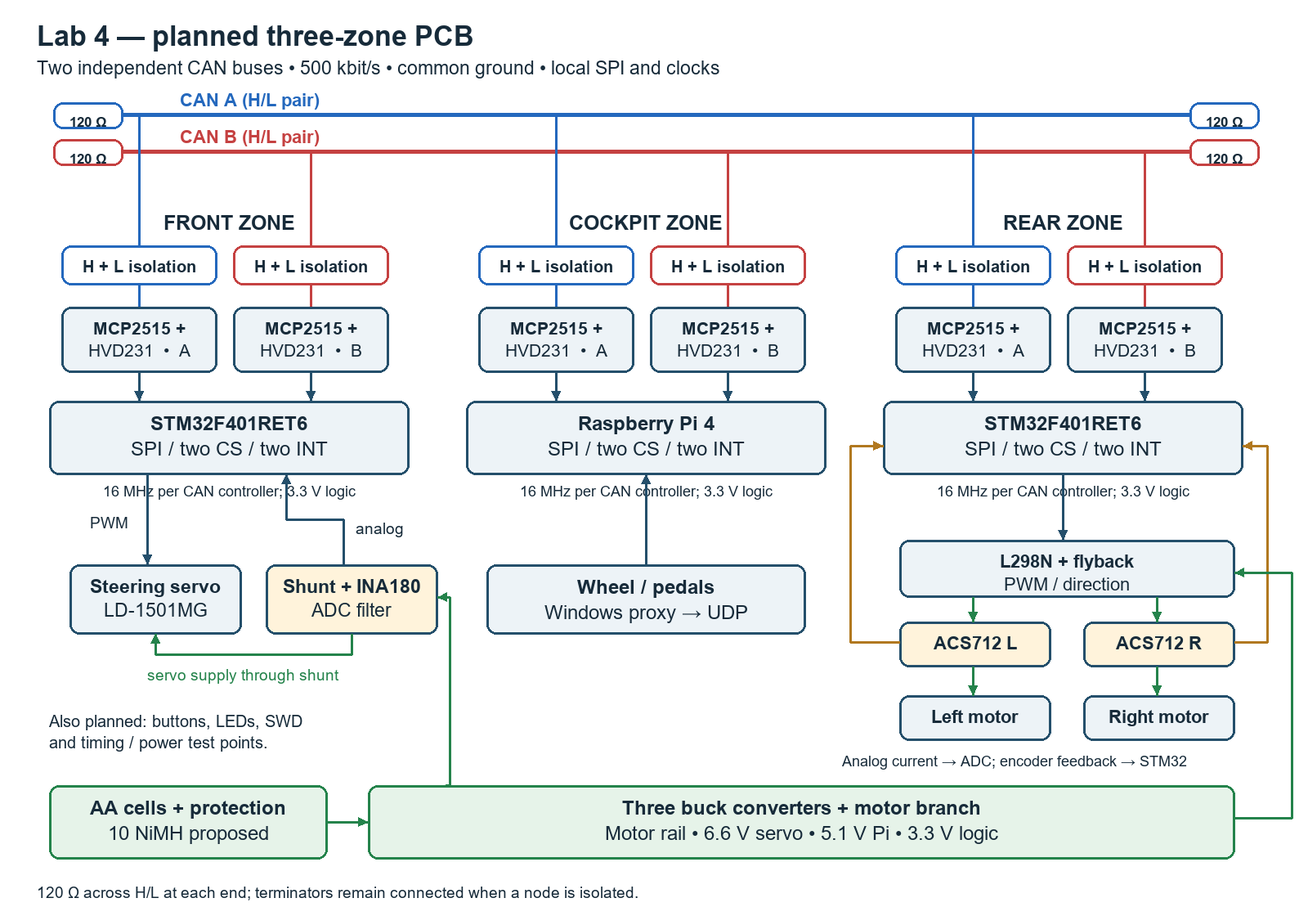
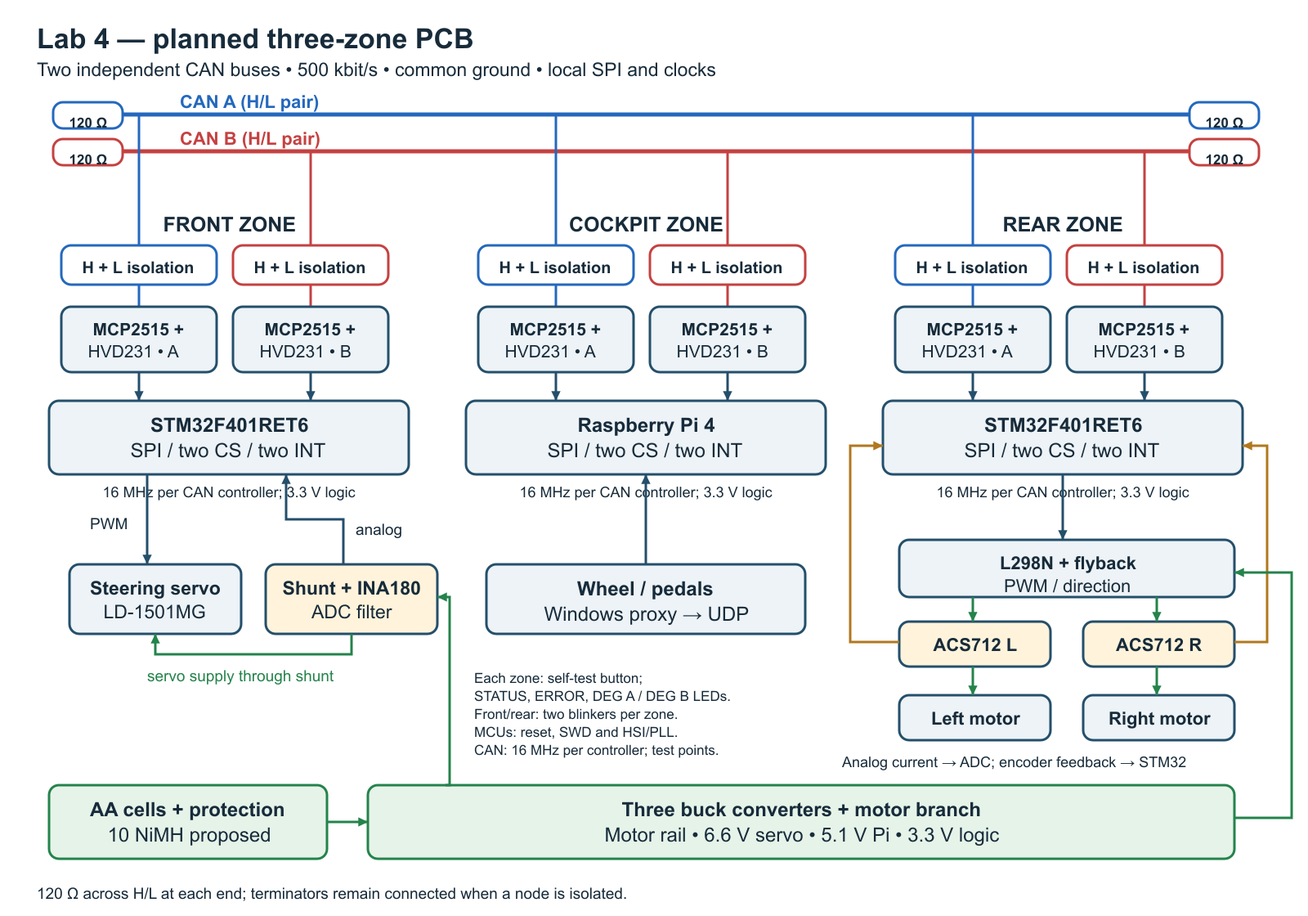
Reconcile Lab 4 measurement evidence and remaining fabrication checks

diff --git a/lab4/Power-design.html b/lab4/Power-design.html
@@ -1,6 +1,6 @@
-<!doctype html><html lang="en"><meta charset="utf-8"><title>Lab 4 power design and calculations</title><style>body{font:16px/1.55 Arial,sans-serif;color:#172b3a;max-width:1050px;margin:35px auto;padding:0 20px}h1{font-size:28px}h2{font-size:22px;margin-top:30px}table{border-collapse:collapse;width:100%;margin:15px 0}th,td{border:1px solid #bcc7ce;padding:8px;text-align:left;vertical-align:top}th{background:#eaf1f5}code{background:#eef2f5;padding:2px 4px}aside{background:#fff1d6;padding:14px}li{margin:9px 0}@media print{body{font-size:10pt;margin:0}h2{break-after:avoid}tr{break-inside:avoid}}</style><h1>Lab 4 power design and calculations</h1><p>23 October 2026. Calculated design for review; no new circuit has been built or measured. This engineering supplement supports the shared Lab 4 Writeup.</p>
-<h2>Power tree and battery decision</h2><p>Ten-cell Sub-C NiMH pack → keyed connector → fuse → reverse-polarity PMOS → protected battery node. That node feeds the L298 motor branch and three independent TPS564252 buck converters: 6.6 V servo, 5.1 V Pi/devices, and 3.318 V logic, including both encoders. Grounds are common; route motor and servo return currents to the input bulk/ground region without carrying them through analog or Pi ground connections. Preserve a continuous signal reference plane.</p>
-<p>Battery and charger purchasing remain unresolved under the October 24 DigiKey/Mouser rule. Tenergy 11609/01025 remains a documented design reference with zero purchase quantity; the Dantona candidates lack verified discharge limits and compatible-charger evidence. The BOM explicitly requests one unresolved pack and charger. No on-board charger is included. See Parts-review.md for the sources and exceptions.</p>
+<!doctype html><html lang="en"><meta charset="utf-8"><title>Lab 4 power design and calculations</title><style>body{font:16px/1.55 Arial,sans-serif;color:#172b3a;max-width:1050px;margin:35px auto;padding:0 20px}h1{font-size:28px}h2{font-size:22px;margin-top:30px}table{border-collapse:collapse;width:100%;margin:15px 0}th,td{border:1px solid #bcc7ce;padding:8px;text-align:left;vertical-align:top}th{background:#eaf1f5}code{background:#eef2f5;padding:2px 4px}aside{background:#fff1d6;padding:14px}li{margin:9px 0}@media print{body{font-size:10pt;margin:0}h2{break-after:avoid}tr{break-inside:avoid}}</style><h1>Lab 4 power design and calculations</h1><p>25 October 2026. Calculated design for review; no new circuit has been built or measured. This engineering supplement supports the shared Lab 4 Writeup.</p>
+<h2>Power tree and battery decision</h2><p>Ten-cell NiMH pack (final selection open) → keyed connector → fuse → reverse-polarity PMOS → protected battery node. That node feeds the L298 motor branch and three independent TPS564252 buck converters: 6.6 V servo, 5.1 V Pi/devices, and 3.318 V logic, including both encoders. Grounds are common; route motor and servo return currents to the input bulk/ground region without carrying them through analog or Pi ground connections. Preserve a continuous signal reference plane.</p>
+<p>Battery and charger selection remains unresolved. Amazon is permitted for the battery only; other purchases require DigiKey/Mouser or course stock. The provisional Amazon Tenergy 12 V/2 Ah candidate has a published 2 A continuous limit, no established 10 A pulse rating and unresolved fit. Tenergy 11609/01025 remains a documented design reference with zero purchase quantity; the Dantona candidates lack verified discharge limits and compatible-charger evidence. The BOM explicitly requests one unresolved pack and charger. No on-board charger is included. See Parts-review.md for the sources and exceptions.</p>
 <p>The protected-node electrical qualification range is 8–15 V. This is <b>not</b> permission to discharge a ten-cell pack to 8 V. Set the operating stop voltage from the selected cell data and weakest-cell behavior, with margin for servo regulation; do not rely on converter undervoltage lockout to protect NiMH cells. Maximum charged voltage and switching transients must stay within component ratings.</p><table><thead><tr><th>Rail</th><th>Nominal output</th><th>Provisional peak allocation</th><th>Minimum input qualification target</th></tr></thead><tbody><tr><td>Motor</td><td>Battery-dependent</td><td>6.4 A raw stall-spec sum; L298 cannot sustain this</td><td>No 12 V regulation</td></tr><tr><td>Servo</td><td>6.6 V</td><td>4 A, unmeasured</td><td>8 V</td></tr><tr><td>Pi/devices</td><td>5.1 V</td><td>3.3 A (3 Pi + 0.3 other)</td><td>6 V</td></tr><tr><td>Logic</td><td>3.318 V</td><td>0.8 A</td><td>4.5 V</td></tr></tbody></table><p>Every average-current entry remains unmeasured. Datasheet-based calculations and explicit assumptions can support preliminary estimates; the handout separately requires measured motor stall/loss/temperature evidence. The optional measurement worksheet is not an additional deliverable. These allocations are design targets, not verified simultaneous loads or a safe operating command. We retain the course L298 and need to verify cooling and expected brief-stall/protection behavior. The present circuit has no autonomous motor current limiter.</p>
 <p>October24 source review: Hiwonder’s exact LD-1501MG chassis specification lists100mA no-load and2.4–3A stall current. Test voltage and static-hold versus unloaded-motion conditions are unspecified. Our preliminary average case uses0.72A motor supply,0.39A servo (90% at0.1A,10% at3A),3.3A Pi/devices and0.8A logic. These are explicit planning assumptions, not measured currents or a guaranteed worst case. Regulated output is22.0584W; at12V and assumed85% efficiency the input estimate is2.883A. Details and source links are in <a href="Current-evidence.md">Current-evidence.md</a>.</p><h2>Component choices and calculations</h2><p>A buck converter switches its input and smooths the pulses with an inductor and capacitors to make a lower voltage. Three independent converters isolate load disturbances better than one shared servo/logic supply. They still share the battery, so battery sag can affect all three.</p>
 <p>TPS564252 feedback reference is nominally 0.6 V. Vout = 0.6 × (1 + Rtop/Rbottom). Use 100 kΩ/10 kΩ for 6.6 V, 75 kΩ/10 kΩ for 5.1 V, and 45.3 kΩ/10 kΩ for 3.318 V. The 5.1 V pair uses 0.1% parts: with a ±1.5% feedback reference, the calculated static endpoints are about 5.015–5.186 V before wiring loss, transients and other error. A 1% pair gives approximately 5.268 V at the worst high corner, so it is not our choice for this rail.</p>
@@ -10,6 +10,6 @@
 <p>Q1 is DMPH3010LK3-13: drain toward the fused battery, source toward the load; 10 kΩ gate pull-down, 47 kΩ gate-to-source resistor and 12 V gate zener. The zener cathode goes to the source. This protects against reversed battery polarity, but does not block reverse current during braking or hot-plug events. At 10 A and 10 mΩ, Q1 dissipates 1 W at the quoted cold resistance; hot resistance and PCB thermal behavior need checking.</p>
 <p>C400 is a proposed 1000 µF/25 V Nichicon UPW1E102MHD, 12.5 mm diameter × 20 mm high, 5 mm lead pitch. The datasheet high-frequency ripple rating is 1.66 A under its specified conditions, not permission for arbitrary motor ripple. Bulk capacitance handles short edges: an extra 4 A for 1 ms would change an ideal 1000 µF capacitor by 4 V. It cannot replace an adequate battery and holder.</p>
 <h2>Input current and runtime</h2><p>Use power when combining different rails: Ibat ≈ Imotors + [6.6Iservo/ηservo + 5.1I5V/η5V + 3.318I3V3/η3V3]/Vbat. Do not simply add their output currents. At all three provisional allocations, converted output power is 45.88 W. With an assumed 85% efficiency and the raw 6.4 A motor stress case, battery current would be about 10.90 A at 12 V and 13.15 A at 8 V. This deliberately shows that the handout's 10 A estimate is not a verified maximum. It is not a requested test or safe L298 load.</p>
-<p>The selected pack has nominal energy 12 V × 4.2 Ah = 50.4 Wh. Runtime ≈ usable Wh / average battery power. We have not established average power or usable capacity under the vehicle load, so this is not a measured runtime prediction.</p>
-<h2>Open decisions before manufacture</h2><ul><li>Resolve a permitted battery/charger pair, operating cutoff and mounting; runtime is unmeasured.</li><li>Fuse element coordinated with holder/wire/connector limits and measured startup. J40 now uses a Hirose DF63M-2P-3.96DSA power header. Verify mating contacts, wire gauge, harness polarity and derating.</li><li>Motor current limiting, braking behavior and L298 heatsink; input transient suppression or clamp if measurements require it.</li><li>Effective capacitor values, buck loop stability, load-step sag/overshoot and heat; PCB current paths and copper widths.</li><li>Both MCU support circuits and cross-sheet power connections are now placed. The 284-component schematic passes ERC. Actuator interfaces and an unrouted placement are included, but motor current limiting, heatsink selection, detailed routing and hardware validation remain unfinished. No PCB has been released.</li></ul>
+<p>The provisional 12 V/2 Ah pack has 24 Wh nominal energy; it is not a qualified selection. The earlier 12 V/4.2 Ah reference has 50.4 Wh, but is not the selected battery. Runtime ≈ usable Wh / average battery power. We have not established average power or usable capacity under the vehicle load, so this is not a measured runtime prediction.</p>
+<p>The existing four-rail planning estimates are complete as estimates. <a href="Current-evidence.md">Current-evidence.md</a> now includes 8–15 V and 80%/85% efficiency sensitivity cases. Lower efficiency raises predicted input current; neither assumption certifies a battery rating. New-board voltage, noise and thermal tests are later bring-up work. Confirm whether the recorded October 24 measurement deferral also covers the final brief.</p><h2>Open decisions before manufacture</h2><ul><li>Resolve a permitted battery/charger pair, operating cutoff and mounting; runtime is unmeasured.</li><li>Fuse element coordinated with holder/wire/connector limits and a documented load/startup envelope; validate actual startup after assembly. J40 now uses a Hirose DF63M-2P-3.96DSA power header. Verify mating contacts, wire gauge, harness polarity and derating.</li><li>Motor current limiting, braking behavior and L298 heatsink; input transient suppression or clamp if measurements require it.</li><li>Effective capacitor values, buck loop stability, load-step sag/overshoot and heat; PCB current paths and copper widths.</li><li>Both MCU support circuits and cross-sheet power connections are now placed. The 284-component schematic passes ERC. Actuator interfaces and an unrouted placement are included, but motor protection expectations, heatsink installation, detailed routing and hardware validation remain unfinished. The 6396BG part was accepted for the preliminary review. No PCB has been released.</li></ul>
 <h2>References</h2><p><a href="https://www.ti.com/lit/ds/symlink/tps564252.pdf">TI TPS564252</a>; <a href="https://www.eaton.com/content/dam/eaton/products/electronic-components/resources/data-sheet/eaton-sdcha1v80-automotive-semi-shielded-power-inductor-data-sheet-elx1097-en.pdf">Eaton SDCHA1V80</a>; <a href="https://www.diodes.com/datasheet/download/DMPH3010LK3.pdf">Diodes DMPH3010LK3</a>; <a href="https://www.nichicon.com/en-us/part/upw1e102mhd/8414/">Nichicon bulk capacitor</a>; <a href="https://www.st.com/resource/en/datasheet/l298.pdf">ST L298</a>; course Lab 4 handout and parts list v3; <a href="Current-evidence.md">current evidence</a>; <a href="Parts-review.md">parts review</a>.</p></html>

diff --git a/lab4/Mechanical-evidence.md b/lab4/Mechanical-evidence.md
@@ -1,0 +1,62 @@
+# Mechanical evidence and dimensional checks
+
+25 October 2026. We reconciled the October 23–24 measurement photos, team
+confirmations and the replies in the [original checklist](https://docs.google.com/document/d/1P07nc_d7xIuWZ1wto0kTwSsNMT-0vlnfMW1e4U4-y5E/edit).
+These observations support the design; they do not describe an assembled PCB.
+
+## Completed observations
+
+| Item | Recorded evidence | What it establishes |
+| --- | --- | --- |
+| Chassis supports | Center-to-center: 50 mm front pair, 105 mm rear pair, 220 mm between rows; pair midpoints aligned. User confirmed 4.5 mm smooth through-holes. | The four chassis coordinates and proposed M3 screw/washer arrangement do not need another measurement. |
+| Four-hole fit | The later October 24 photo/report says all four printed-template holes aligned simultaneously with borrowed spacers, approximately 50 mm above the top chassis plate. | Supersedes the earlier opposite-corners-only report. Confirms the paper hole pattern, not all final component/cable clearances. |
+| Pi footprint | Pi paper cutout aligned; 2.7 mm Pi holes reported. | Supports the Pi footprint and M2.5 hardware choice. Chassis and Pi hole diameters need not match. |
+| Actual Pi height | October 24 caliper reply: about 18 mm from Pi board bottom to USB top; USB body about 16 mm; pins/microSD below the board less than 5 mm. | Supports the 22 mm Pi gap and about 11 mm lower clearance. No repeat caliper campaign is needed for these dimensions. |
+| Battery space | A 115 × 50 × 50 mm cardboard envelope fitted between chassis plates; about 51.75 mm usable height reported. | Establishes the tested space, not fit of every battery candidate or of a retaining strap and leads. |
+| Cable identification | Servo photos/report: black ground, red old bench supply, white PWM. Pictured motor harness order: motor lead 1, encoder supply, A, B, encoder ground, motor lead 2. | Photos and reported mapping are complete. See Actuator-design.md; adapter continuity and the second harness were not verified by these pictures. |
+
+## Pi stack calculation
+
+We keep the existing **35 mm chassis spacers and 22 mm Pi spacers** as the
+nominal design. The borrowed 50 mm spacers were a paper-fit aid, not a new
+required board height. These calculations assume a 1.6 mm Pi PCB thickness.
+
+| Calculation | Result | Meaning |
+| --- | ---: | --- |
+| Pi underside above chassis: 35 − 22 − 1.6 | 11.4 mm | Calculated board clearance; agrees with the comment's approximately 11 mm. |
+| Lower clearance after a conservative 5 mm underside envelope: 11.4 − 5 | 6.4 mm | Nominal remaining space before screw tails, wires and tolerances. |
+| USB top above Pi top surface: 18 − 1.6 | 16.4 mm | Converts the measured board-bottom datum to the model's board-top datum. |
+| USB-to-main-board clearance: 22 − 16.4 | 5.6 mm | Calculated nominal clearance using the reported 18 mm height. |
+| With the existing 3 mm maximum downward solder-tail projection: 5.6 − 3 | 2.6 mm | Nominal gap where those tails overlap a USB body. |
+| Deliberately use the full 18 mm as an upper-side envelope: 22 − 18 − 3 | 1.0 mm | More pessimistic dimensional case; not a guaranteed tolerance bound. |
+| Socket insertion: 8.5 − (22 − 18.67) | 5.17 mm | Within the published 3.68–6.35 mm insertion interval; margins 1.49 mm / 1.18 mm. |
+
+GPIO height comes from the [Pi drawing](https://pip-assets.raspberrypi.com/categories/559-mechanical/documents/RP-001185-MD-1-Mechanical%20Drawing.pdf);
+socket dimensions and engagement come from [Samtec](https://suddendocs.samtec.com/catalog_english/esw_th.pdf).
+Measurement uncertainty and a complete tolerance stack were not supplied.
+No cooler dimensions were supplied; a cooler is not included in this clearance
+claim. A different cooler or longer solder tails must be checked against the
+available space before installation.
+
+These calculations complete the nominal height assessment. Actual connector
+engagement, fastener retention and powered thermal behavior remain assembly
+checks. Before freezing the outline/connector positions, only unresolved
+geometry needs review: cable exits/plug access, steering sweep and heatsink
+installation. Use existing dimensions/drawings where sufficient; a quick
+unpowered mock-up is needed only where those cannot establish clearance.
+Do not rebuild the Lab 2 circuit to repeat these observations.
+
+## Heatsink and mounting-margin limits
+
+The October 24 message reports TA acceptance of **6396BG** for the preliminary
+review and staff follow-up on attachment hardware. Published dimensions are
+available; measuring them again is not a prerequisite for placement.
+The unresolved issue is its attachment to the L298N and resulting occupied
+space: the tentative envelope intersects 15 courtyards. A nominal envelope can
+be designed from the drawing, but an unverified mounting method cannot be
+declared resolved by adding a margin.
+
+The Pi supports' 3 mm radius from the hole center remains a course-rule
+interpretation, not a missing measurement. The adjacent GPIO socket conflicts
+with a literal 3 mm margin from the drilled edge. See
+[Placement-review.md](Placement-review.md) for the numbers.

diff --git a/lab4/Fabrication-review.md b/lab4/Fabrication-review.md
@@ -29,7 +29,7 @@ the board as blocked. A placement-only pass must not be used as a release result
 | Battery and charger | Exact pack, continuous current and any pulse rating with duration, full-charge and discharged voltage bounds, dimensions, connector/polarity and compatible charger from a permitted source | Determines input voltage/current, connector, fuse, wiring and mechanical space. The provisional Amazon pack is not qualified: its published 2 A continuous rating does not cover the assumed 2.883 A planning case; no 10 A pulse rating was established. |
 | Motor protection and fuse | TA/course expectations for fault handling; chosen fuse time-current behavior versus wiring, connectors, holder and load/startup envelope | A 10 A input fuse is not fast protection for an individual L298 bridge. A circuit change must happen before routing. The raw 3.2 A motor stall figure is not an allowed continuous L298 operating point. |
 | L298 and 6396BG installation | Attachment orientation, height and any PCB mounting holes/insulation | The tentative heatsink rectangle intersects 15 other courtyards. Acceptance of the heatsink part for the preliminary review did not verify this installation. Resolve the envelope before moving nearby parts. See `Heatsink-envelope-check.json`. |
-| Pi and chassis stack | Actual Pi/socket/cooler/ports and screw-tail fit; selected spacers; full steering travel; reachable headers; course interpretation of the Pi mounting margin | Four-hole paper alignment was checked at approximately 50 mm chassis spacing. The model proposes 35 mm chassis spacing and a 22 mm Pi gap; these are not physically verified. Pi holes use a 3 mm radius from the center, not 3 mm from the drilled edge. |
+| Pi and chassis stack | Review only remaining layout-dependent cable/port/steering/cooler envelopes and the course interpretation of the Pi mounting margin | Four-hole paper alignment and actual Pi caliper heights are complete. We retain nominal 35 mm chassis and 22 mm Pi spacing, supported by Mechanical-evidence.md. Actual socket mating/fastener retention are assembly checks. Pi holes use a 3 mm radius from the center, not 3 mm from the drilled edge. |
 | Cable interfaces and stock | Confirm second motor harness, servo mating part/current capability and supplied quantities; choose permitted replacements if unavailable | A different PCB connector or part package changes pads and placement. Adapter continuity/temperature tests happen after assembly; the intended mating interface and rating basis must be established first. |
 
 Aim to resolve decisions that change CAD by Monday, October 26. This is a team
@@ -40,8 +40,18 @@ review allowance authorizes fabrication of an unresolved circuit.
 For the motor-stall and L298 drop/temperature questions, the recorded TA deferral
 only establishes that measurements were not needed on October 24. Confirm what
 the final brief should contain on October 29. Published values and calculations
-must stay labeled as such. Do not perform a prolonged stall through the L298 to
-produce a missing number.
+must stay labeled as such. The question is whether that allowance covers the
+final brief, not a request to repeat every possible current measurement. Servo
+no-load source research and four-rail planning estimates are already done.
+Do not perform a prolonged stall through the L298 to produce a missing number.
+
+The final design can use stated load scenarios and calculated dimensional
+margins. Physical tests of the unbuilt board are not prerequisites for
+generating fabrication files. Connector mating/continuity, loaded voltage,
+noise, thermal behavior and retention are checked at assembly/bring-up. Before
+fabrication, resolve uncertainties that could change the circuit, pads,
+outline or reserved space. An undocumented battery/connector rating cannot
+be created by an estimate. See Current-evidence.md and Mechanical-evidence.md.
 
 ## Footprints and routing
 

diff --git a/lab4/Placement-review.md b/lab4/Placement-review.md
@@ -1,8 +1,10 @@
 # PCB placement review
 
-23 October 2026. We updated the **unrouted 120 x 234 mm placement study** in
-`KiCad/Lab4.kicad_pcb`. We have not verified its fit on the car. It is not ready
-for fabrication.
+25 October 2026. The **unrouted 120 x 234 mm placement study** is in
+`KiCad/Lab4.kicad_pcb`. Its four-hole paper pattern passed the October 24 fit
+check, and actual Pi heights were measured. The populated assembly is not
+verified and the board is not ready for fabrication. See
+[Mechanical-evidence.md](Mechanical-evidence.md) for completed observations.
 
 ## Arrangement
 
@@ -56,7 +58,14 @@ We propose 35 mm chassis spacers and four equal 22 mm Pi spacer stacks. With a
 metal plate, before accounting for underside components, card, screws and wires.
 The four Pi supports use hardware no larger than 5.5 mm outside diameter.
 The socket carries signals and power; the supports carry mechanical loads.
-Ports, microSD, cooler and cable access need the physical mock-up. A provisional
+The October 24 caliper reply reports about 18 mm from Pi board bottom to USB
+top and less than 5 mm below the Pi. With the assumed 1.6 mm board thickness,
+these leave 5.6 mm above the USB and 6.4 mm below the reported underside
+envelope. A 3 mm downward solder tail leaves 2.6 mm nominal clearance above
+the USB. These are calculations from measurements, not an assembled fit test.
+We keep 35/22 mm as the nominal stack; no repeat height measurement is requested.
+Resolve remaining plug, cable, cooler or steering envelopes affecting layout;
+verify actual mating at assembly. A provisional
 antenna review zone excludes components/copper on both layers, but Wi-Fi and
 temperature must still be tested with the actual metal chassis and full stack.
 The battery pack needs a separate mounting location; no holder fit is claimed.
@@ -84,8 +93,9 @@ after rotating the photograph's front-left orientation into this board view.
 The 190/30/10 mm image annotations were not needed as extra constraints.
 
 Chassis holes measure 4.5 mm. We propose 3.2 mm PCB clearance holes for M3
-hardware; the actual thread, washer/nut arrangement and spacer heights still
-need checking. Hole diameter alone does not identify a screw thread. The team
+hardware with selected washers and female/female spacers. The team confirmed
+smooth chassis through-holes; no chassis thread identification is pending.
+Actual screw engagement is checked at assembly. The team
 reported clearance below the plate for fasteners and motor-wire reach of
 roughly 60 mm above it; these reports do not establish the complete stacked fit.
 We have not verified that a 120 mm rectangle clears the steering wheels through
@@ -101,8 +111,9 @@ from its drilled edge). Confirm the course interpretation for these Pi supports
 before fabrication; we have not claimed the larger clearance is met there.
 
 Bottom placement rule areas avoid the Pi body/ports while allowing top circuitry.
-The antenna review zone also excludes copper. Final cable envelopes, antenna
-performance, mounting coordinates and hardware dimensions remain to verify.
+The antenna review zone also excludes copper. Final cable envelopes and
+hardware fit remain to verify; chassis coordinates are measured and paper-checked.
+Antenna performance is a later powered test.
 
 `Placement-fit-template.pdf` is a two-page A4 fit template with a 50 mm scale bar.
 Page 1 is the true-size main PCB; page 2 includes a true-size Pi alignment drawing,

diff --git a/lab4/Current-evidence.md b/lab4/Current-evidence.md
@@ -1,6 +1,6 @@
 # Current evidence and measurement record
 
-24 October 2026. We distinguish component ratings, calculated allocations and
+25 October 2026. We distinguish component ratings, calculated allocations and
 measurements. Average current on the new PCB is unmeasured; it has not been built.
 
 ## October 24 review clarification
@@ -147,3 +147,41 @@ preserves the inputs and unrounded arithmetic. Confirm the operating profile
 with the team/TA or replace it with measured averages. Motor stall and
 L298-drop/temperature evidence remain unmeasured, with deferral confirmed for
 the October 24 review.
+
+## October 25 estimate sensitivity and measurement scope
+
+The four-rail estimate and exact-model servo lookup are completed design work.
+We can continue with these explicitly labeled estimates; we do not need to
+rebuild Lab 2 to collect every row of the optional measurement worksheet.
+The handout separately asks for **measured** motor stall current and L298
+drop/temperature. The October 24 deferral is recorded above; confirm its scope
+for the final brief. The servo question asks for **no-load holding** current,
+not loaded holding. The supplier's 100 mA no-load entry does not specify whether
+the shaft is holding or moving. Keep that condition limitation explicit.
+The Pololu HD-1501MG and Hiwonder LD-3015MG are different models; neither replaces
+the LD-1501MG evidence just because a numerical value looks more conservative.
+
+We checked how the existing estimates change with input voltage and efficiency:
+
+| Battery voltage | Planning case, 85% | Planning case, 80% | Allocation/stall stress case, 85% | Allocation/stall stress case, 80% |
+| --- | ---: | ---: | ---: | ---: |
+| 15 V | 2.450 A | 2.558 A | 9.999 A | 10.224 A |
+| 12 V | 2.883 A | 3.018 A | 10.898 A | 11.180 A |
+| 10 V | 3.315 A | 3.477 A | 11.798 A | 12.136 A |
+| 8 V | 3.964 A | 4.167 A | 13.148 A | 13.569 A |
+
+Planning case: `0.72 + 22.0584/(Vbat × efficiency)` amperes.
+Stress case: `6.4 + 45.8844/(Vbat × efficiency)` amperes, with the servo at
+its provisional 4 A allocation, Pi/devices 3.3 A and logic 0.8 A. These sweep
+the arithmetic while holding the assumed motor input currents fixed; real
+motor current changes with voltage, PWM and load. The 80% efficiency case is a
+more pessimistic assumption, not a verified lower efficiency bound. The 8 V
+row is the electrical design-envelope case, not an approved NiMH discharge
+cutoff. The stress case exceeds L298 limits and is **not an operating or test
+instruction**, nor proof of the actual peak or its duration.
+
+This is a useful conservative sensitivity analysis within stated assumptions.
+It cannot certify a pack's missing discharge rating or establish a safe stall
+duration. A final battery choice still needs documented ratings or an explicitly
+accepted design change. New-board voltage, ripple, noise, calibration and
+temperature tests remain later bring-up work, not completed measurements.

diff --git a/lab4/README.md b/lab4/README.md
@@ -135,7 +135,9 @@ the Pi through pins 2/4; power-path isolation is not implemented.
 J70 is now a bottom-mounted Samtec ESQ-120-44-L-D socket candidate, aligned
 directly to a component-side-up Pi below the main PCB. No GPIO cable is planned.
 Top-side cockpit CAN circuitry occupies part of that same area. We propose
-22 mm Pi spacers and 35 mm chassis spacers, pending physical fit. See the
+22 mm Pi spacers and 35 mm chassis spacers, now supported by the October 24
+Pi caliper measurements and nominal clearance calculations in
+[Mechanical-evidence.md](Mechanical-evidence.md). Actual assembly is untested. See the
 placement review for contact insertion, underside-tail limits, cooling/Wi-Fi
 checks and the Pi mounting-hole clearance interpretation that remains open.
 
@@ -170,9 +172,10 @@ device-tree configuration and physical bus labels before relying on Linux
   The course assembly plan is now team assembly; the JLC comparison is historical.
 - Verify the five GCT switch footprints and the remaining package/connector
   dimensions. Check the course-stock transceiver against the selected DR code.
-- The four chassis positions and Pi footprint passed the October 24 paper-fit
-  check. Verify the proposed final standoff stack, actual Pi/header engagement,
-  cable access and wheel/linkage clearance.
+- The four chassis positions, Pi paper footprint and actual-Pi height checks
+  are complete; no repeat measurements are requested. Before layout freeze,
+  resolve remaining cable/port/steering envelopes using drawings or a quick
+  unpowered check where necessary. Check actual mating and retention at assembly.
   Complete routing, power/thermal design and final DRC before fabrication.
 
 ERC reports zero errors and zero warnings. Netlist checks cover all 284

diff --git a/lab4/Parts-review.md b/lab4/Parts-review.md
@@ -214,10 +214,13 @@ supply, yellow=A, blue=B, gray=encoder ground, black=motor lead 2. These are
 the attached jumper colors, not colors assigned to the motor's black ribbon
 cable. The adapter mapping is recorded in Actuator-design.md.
 
-Physical checks still needed: second motor harness agreement, exact plug
-mating geometry and wire gauges; actual encoder output type; heatsink fit;
-the battery retaining strap/lead route; and the proposed Pi/chassis vertical
-spacer stack. The battery envelope has passed the team's cardboard check.
+The October 24 actual-Pi caliper reply supports the nominal 35 mm chassis /
+22 mm Pi stack; see Mechanical-evidence.md. No repeat height measurement is
+requested. Review remaining cable/port/steering envelopes and heatsink
+installation where they affect fabrication. Second-harness agreement, adapter
+mating/continuity, wire identification and encoder signal checks belong to
+harness preparation/bring-up unless a connector change would alter PCB pads.
+Battery retention and lead routing follow the final pack choice. The battery envelope has passed the team's cardboard check.
 The four chassis center positions and 4.5 mm diameters are already established.
 The team also confirmed the chassis holes are smooth through-holes. Their
 diameter does not set the spacer thread: the proposed M3 fasteners use washers
